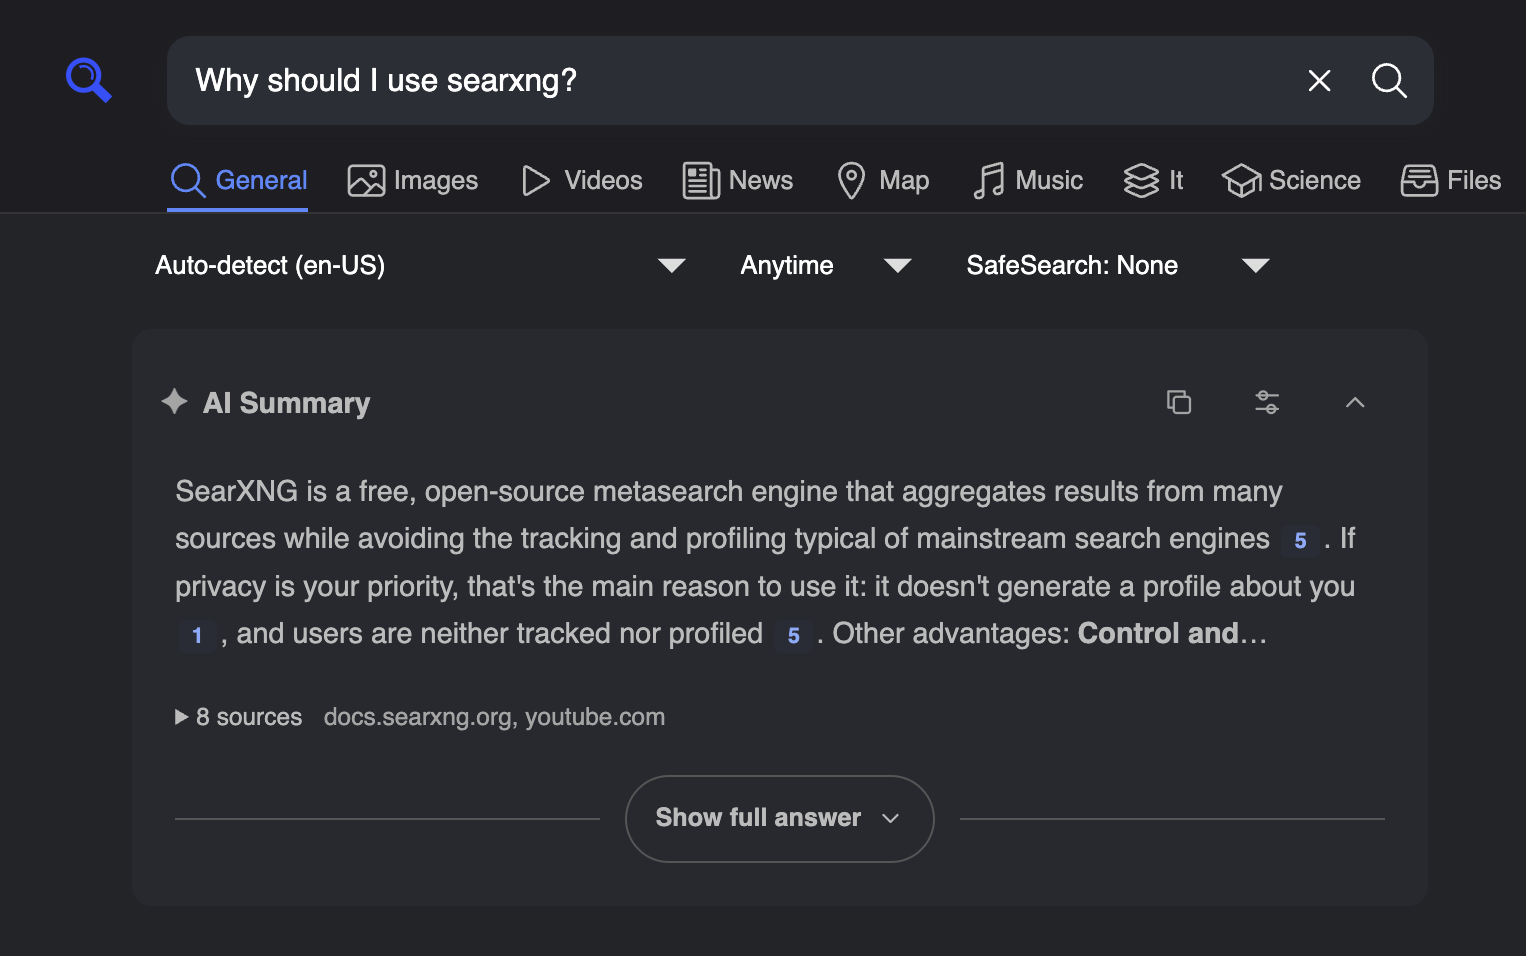
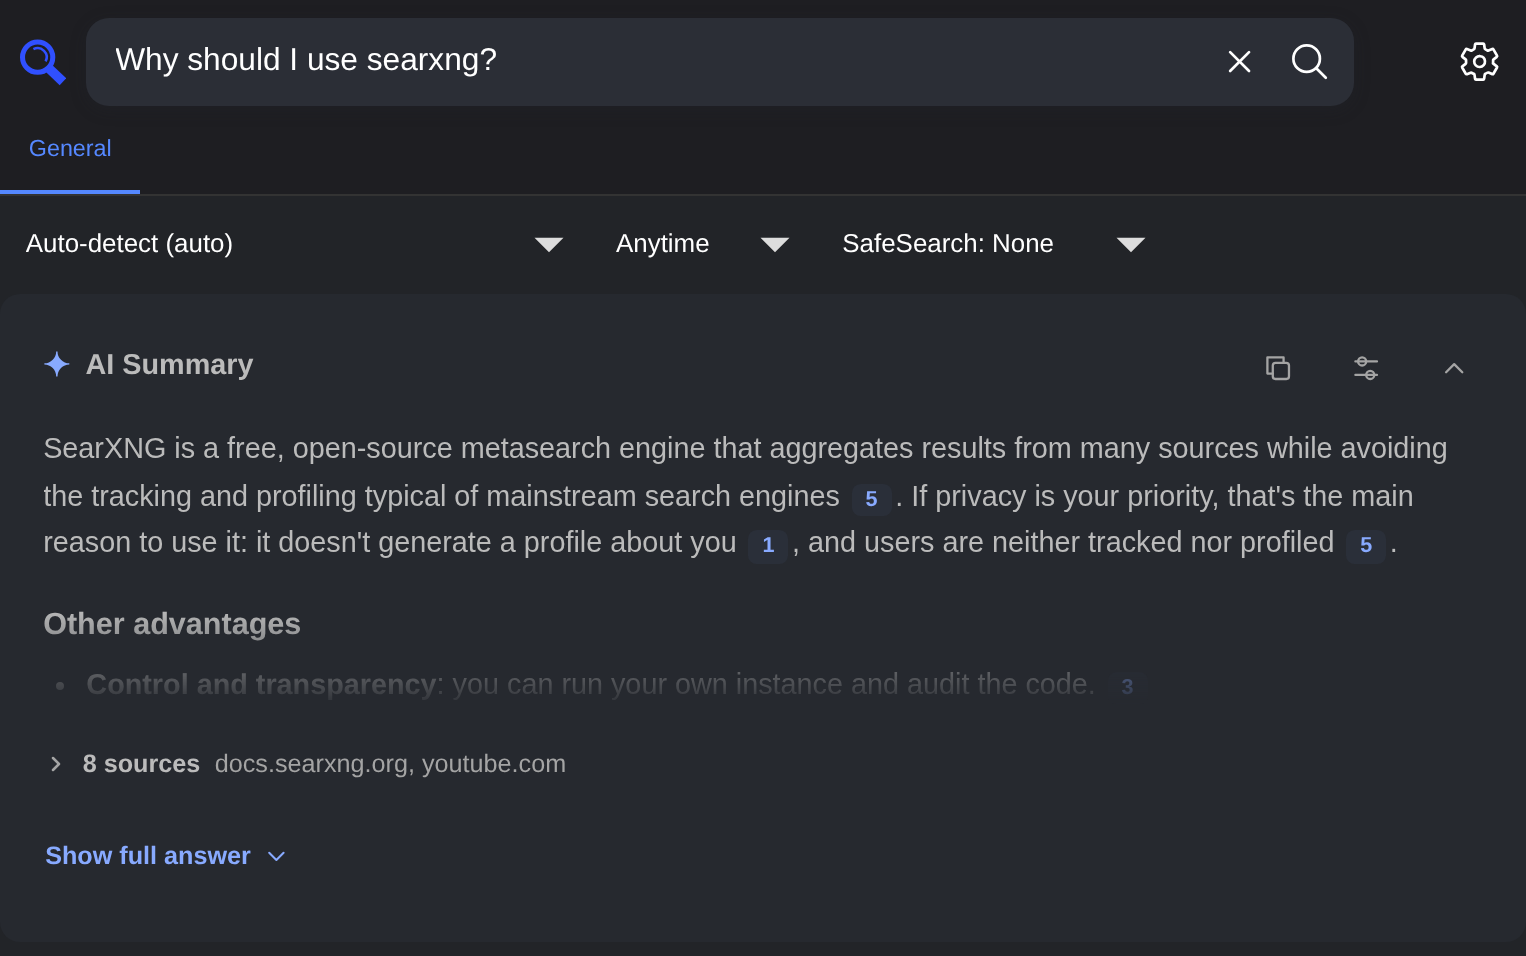
docs: describe the panel's preview, feedback and motion; refresh the README screenshot

diff --git a/tests/integration/browser_check.py b/tests/integration/browser_check.py
@@ -498,7 +498,9 @@ def main() -> None:
         page.goto("http://127.0.0.1:8899/search?q=why+is+the+sky+blue%3F")
         expect(panel.locator(".ai-status")).to_have_text("", timeout=20000)
         expect(panel).to_have_attribute("data-clipped", "false")
-        assert panel.locator(".ai-answer").evaluate("el => getComputedStyle(el).maskImage") == "none"
+        assert (
+            panel.locator(".ai-answer").evaluate("el => getComputedStyle(el).maskImage") == "none"
+        )
 
         # Instant answers and AI Summary must not share one continuous card.
         page.goto("http://127.0.0.1:8899/search?q=stacked+answers%3F")
@@ -762,7 +764,9 @@ def check_chat_mode(page: Page, output: Path) -> None:
     expect(panel.locator(".ai-answer")).to_contain_text("sky", timeout=15000)
     # Reduced motion: streamed text is not wrapped for fading, and the mark holds still.
     assert panel.locator(".ai-answer .ai-fresh").count() == 0
-    assert panel.locator(".ai-sparkle").evaluate("el => getComputedStyle(el).animationName") == "none"
+    assert (
+        panel.locator(".ai-sparkle").evaluate("el => getComputedStyle(el).animationName") == "none"
+    )
     # Entering mid-answer starts its suggestions without waiting for it to finish.
     with page.expect_request(lambda request: request.url.endswith("/suggest")):
         tab.click()

diff --git a/docs/ARCHITECTURE.md b/docs/ARCHITECTURE.md
@@ -187,11 +187,25 @@ Screen readers receive status updates rather than announcements for every token.
 ## Summary interface
 
 The panel inherits SearXNG's typography and theme colors. The initial answer
-previews four lines; the disclosure control expands longer answers. Each answer
-has its own source list, and citations open the corresponding source snippet.
-The header provides Stop, Copy, settings, and collapse controls. Settings allow
-regeneration and, when enabled, model selection. Motion respects reduced-motion
-preferences.
+previews six lines (`--ai-preview-lines` in `overview.css`, which `overview.js`
+reads) with its headings, lists, and code intact, fading out where it is cut;
+the disclosure control expands longer answers. Each answer has its own source
+list, and citations open the corresponding source snippet. The header provides
+Stop, Copy, settings, and collapse controls. Settings allow regeneration and,
+when enabled, model selection.
+
+Feedback sits where the reader is looking. Copy confirms on its own button. A
+failure is marked in the status line, with Retry under it; stopping uses the
+same place without the error mark. When part of an answer was written, both sit
+under that text. Sources stay hidden until their answer has text.
+
+Motion is limited to opacity, transform, and color. Streamed text fades in:
+each delta re-renders the answer, so `overview.js` tracks the latest arrivals by
+their offset in the rendered text and re-wraps them with the fade already under
+way. The mark beside the title turns while an answer is on its way. The settings
+sheet, opened sources, new turns, the composer, and chat suggestions ease in.
+Under `prefers-reduced-motion: reduce` every animation and transition in the
+panel is off and streamed text is not wrapped.
 
 The follow-up composer appears once the whole conversation is visible: after
 expansion, or immediately when the first answer fits its preview. It is hidden
